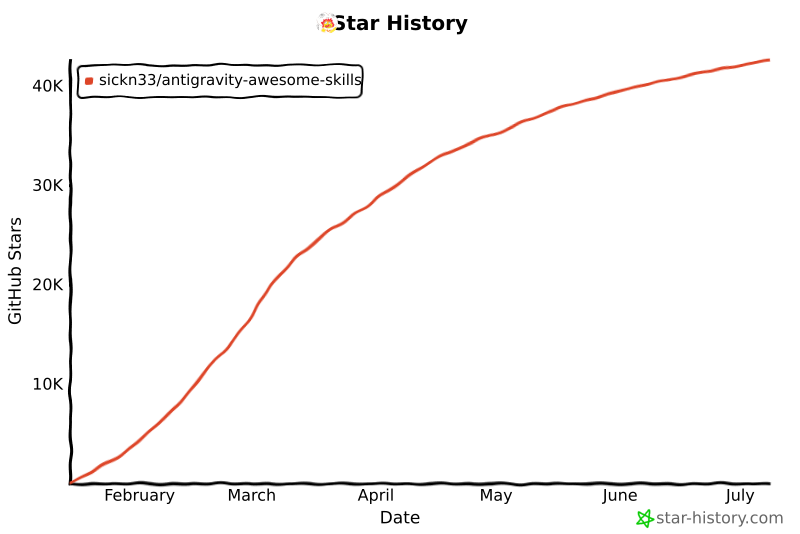
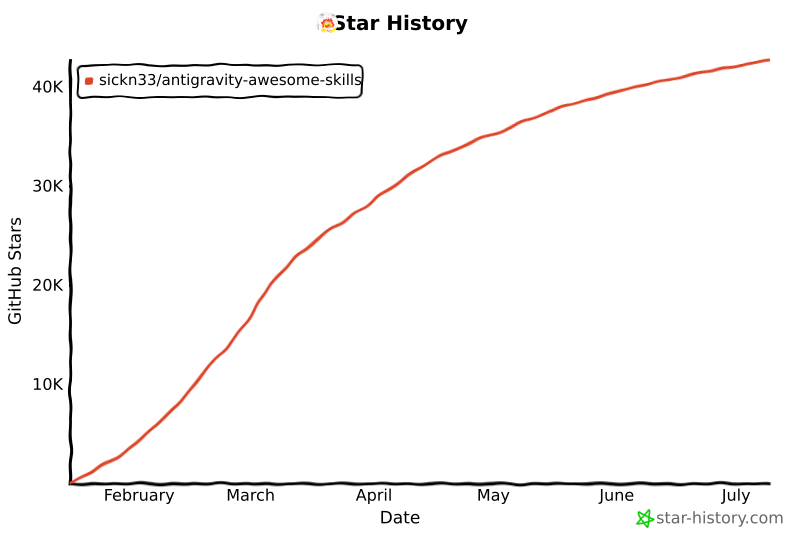
chore: update star history chart

diff --git a/README.md b/README.md
@@ -555,14 +555,14 @@ We officially thank the following contributors for their help in making this rep
 ## Star History
 
 <a href="https://www.star-history.com/#sickn33/antigravity-awesome-skills&type=date&legend=top-left">
- <img alt="Star History Chart" src="https://api.star-history.com/svg?repos=sickn33/antigravity-awesome-skills&type=date&legend=top-left&cache_bust=202607090942" />
+ <img alt="Star History Chart" src="https://api.star-history.com/svg?repos=sickn33/antigravity-awesome-skills&type=date&legend=top-left&cache_bust=202607100938" />
 </a>
 
 <a href="https://www.star-history.com/sickn33/antigravity-awesome-skills">
  <picture>
-   <source media="(prefers-color-scheme: dark)" srcset="https://api.star-history.com/chart?repos=sickn33/antigravity-awesome-skills&style=landscape1&theme=dark&cache_bust=202607090942" />
-   <source media="(prefers-color-scheme: light)" srcset="https://api.star-history.com/chart?repos=sickn33/antigravity-awesome-skills&style=landscape1&cache_bust=202607090942" />
-   <img alt="Star History Chart" src="https://api.star-history.com/chart?repos=sickn33/antigravity-awesome-skills&style=landscape1&cache_bust=202607090942" />
+   <source media="(prefers-color-scheme: dark)" srcset="https://api.star-history.com/chart?repos=sickn33/antigravity-awesome-skills&style=landscape1&theme=dark&cache_bust=202607100938" />
+   <source media="(prefers-color-scheme: light)" srcset="https://api.star-history.com/chart?repos=sickn33/antigravity-awesome-skills&style=landscape1&cache_bust=202607100938" />
+   <img alt="Star History Chart" src="https://api.star-history.com/chart?repos=sickn33/antigravity-awesome-skills&style=landscape1&cache_bust=202607100938" />
  </picture>
 </a>
 
